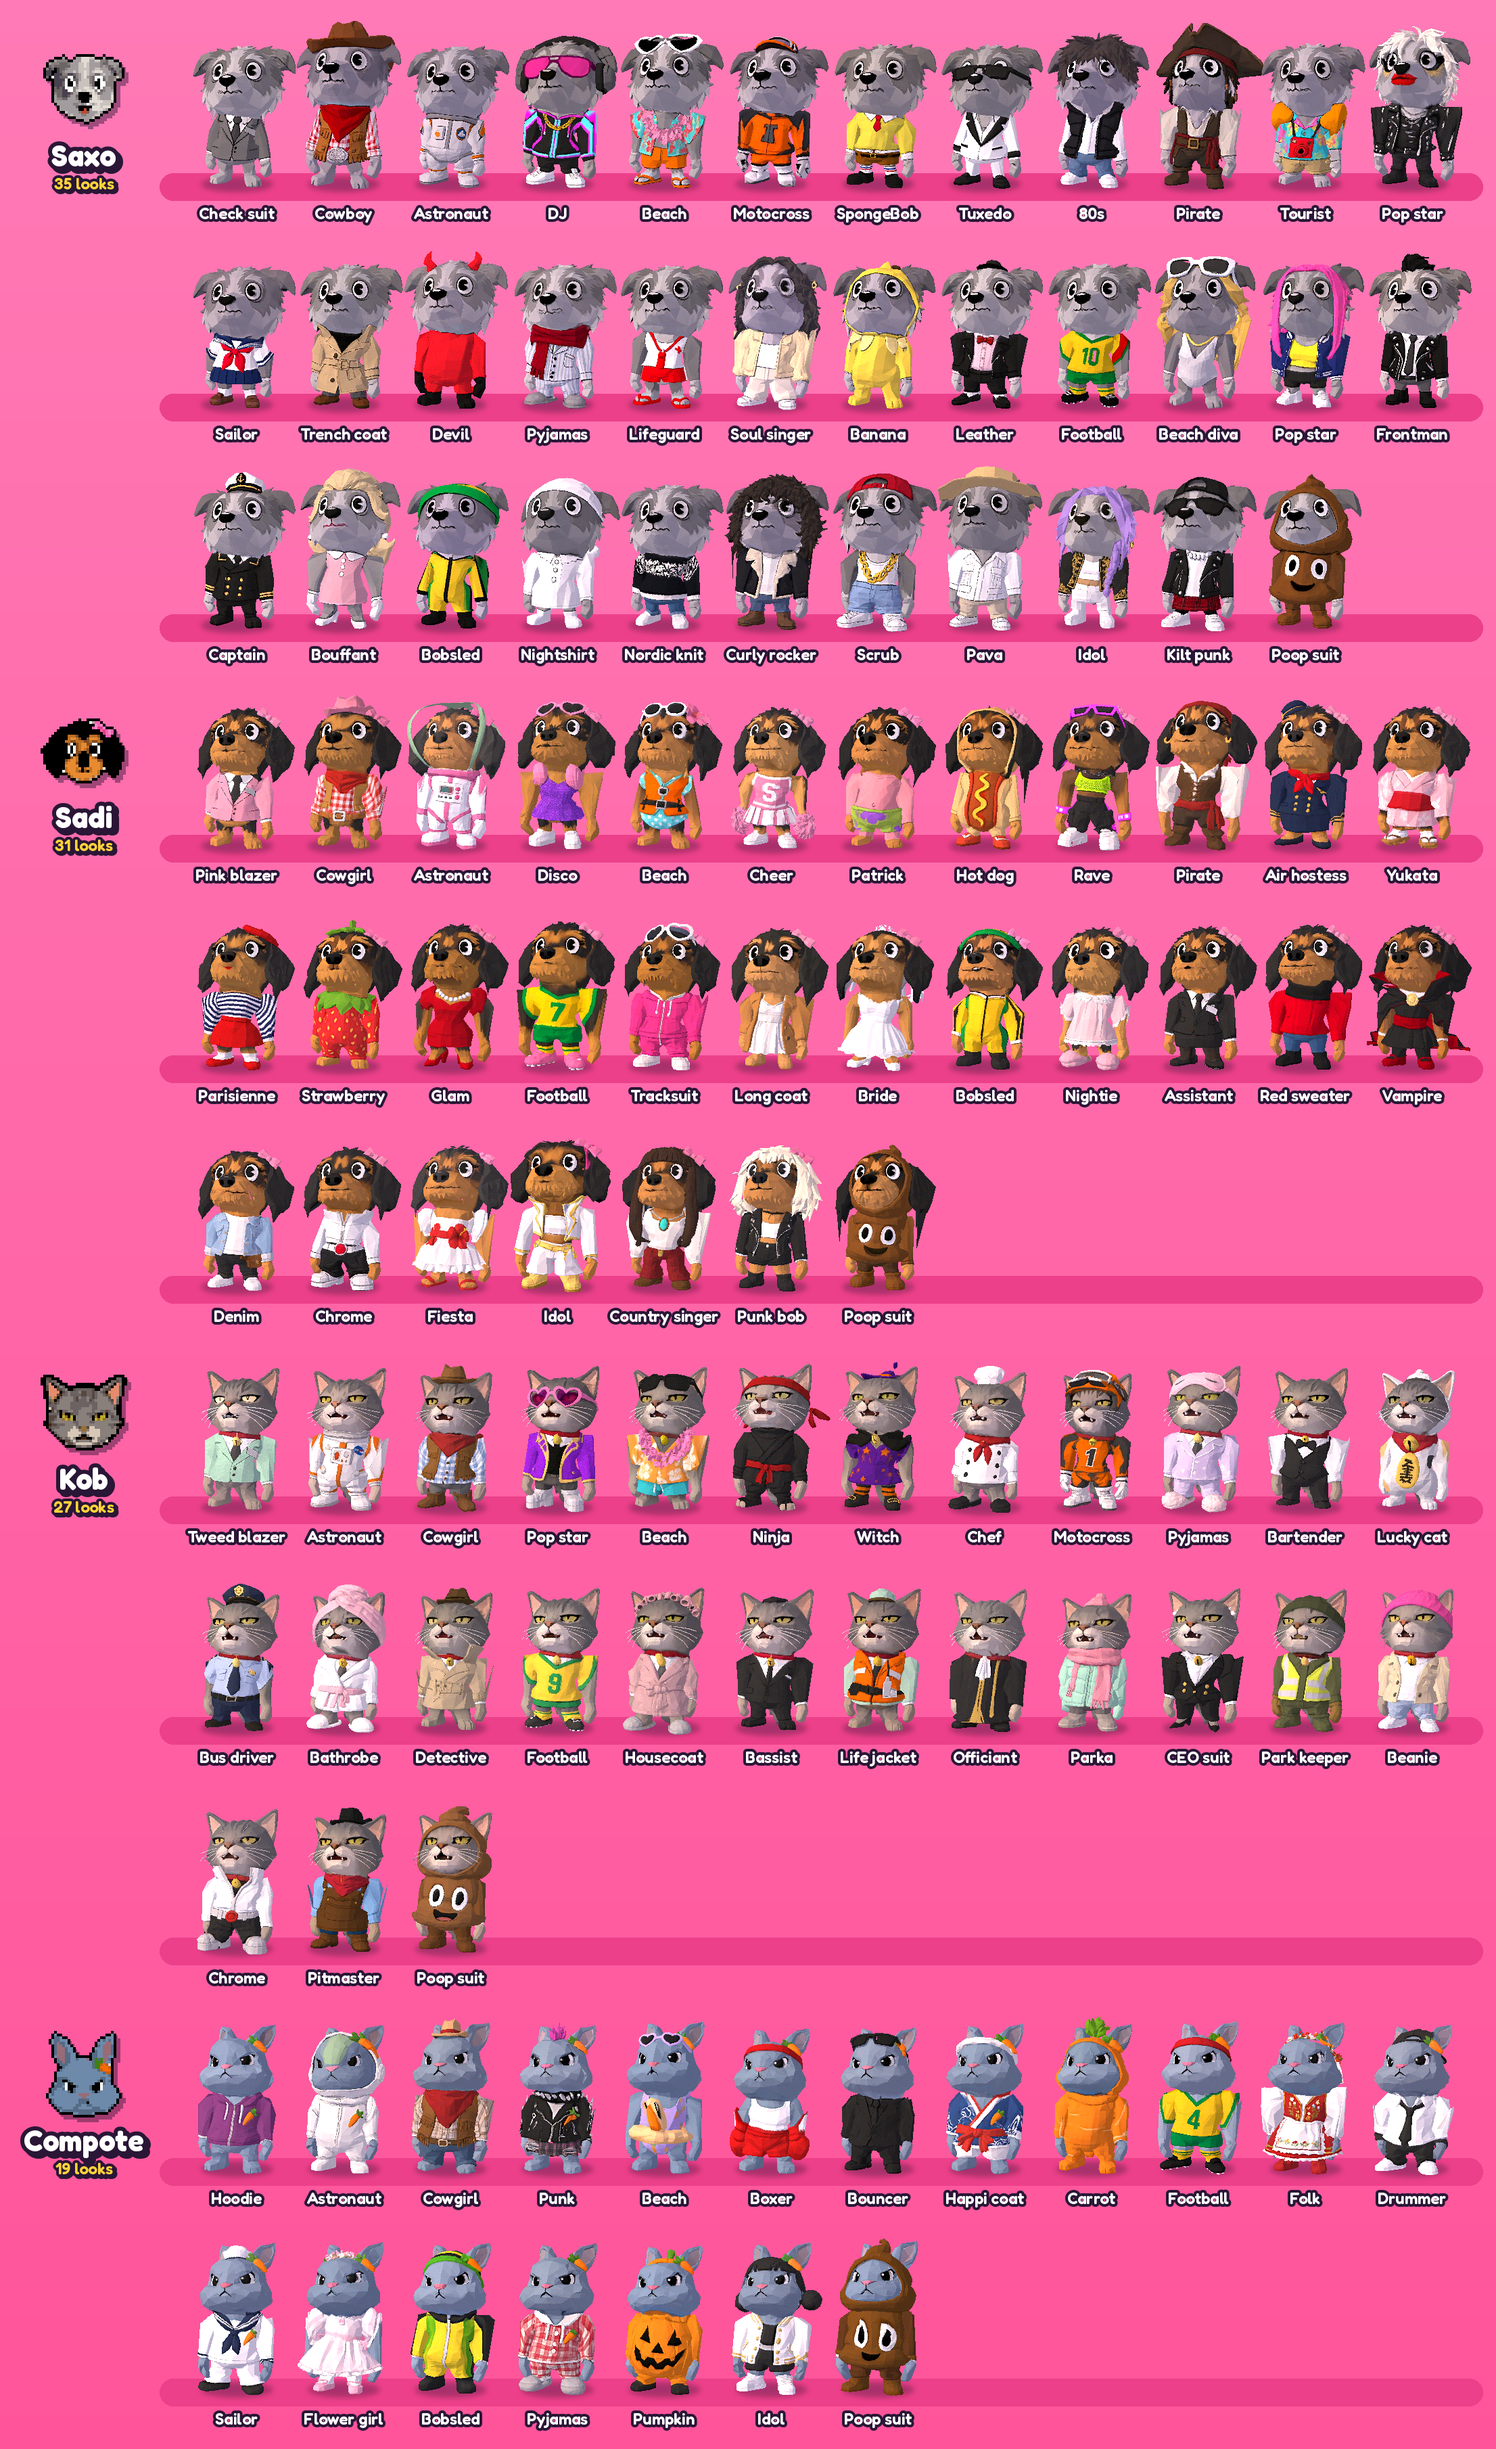
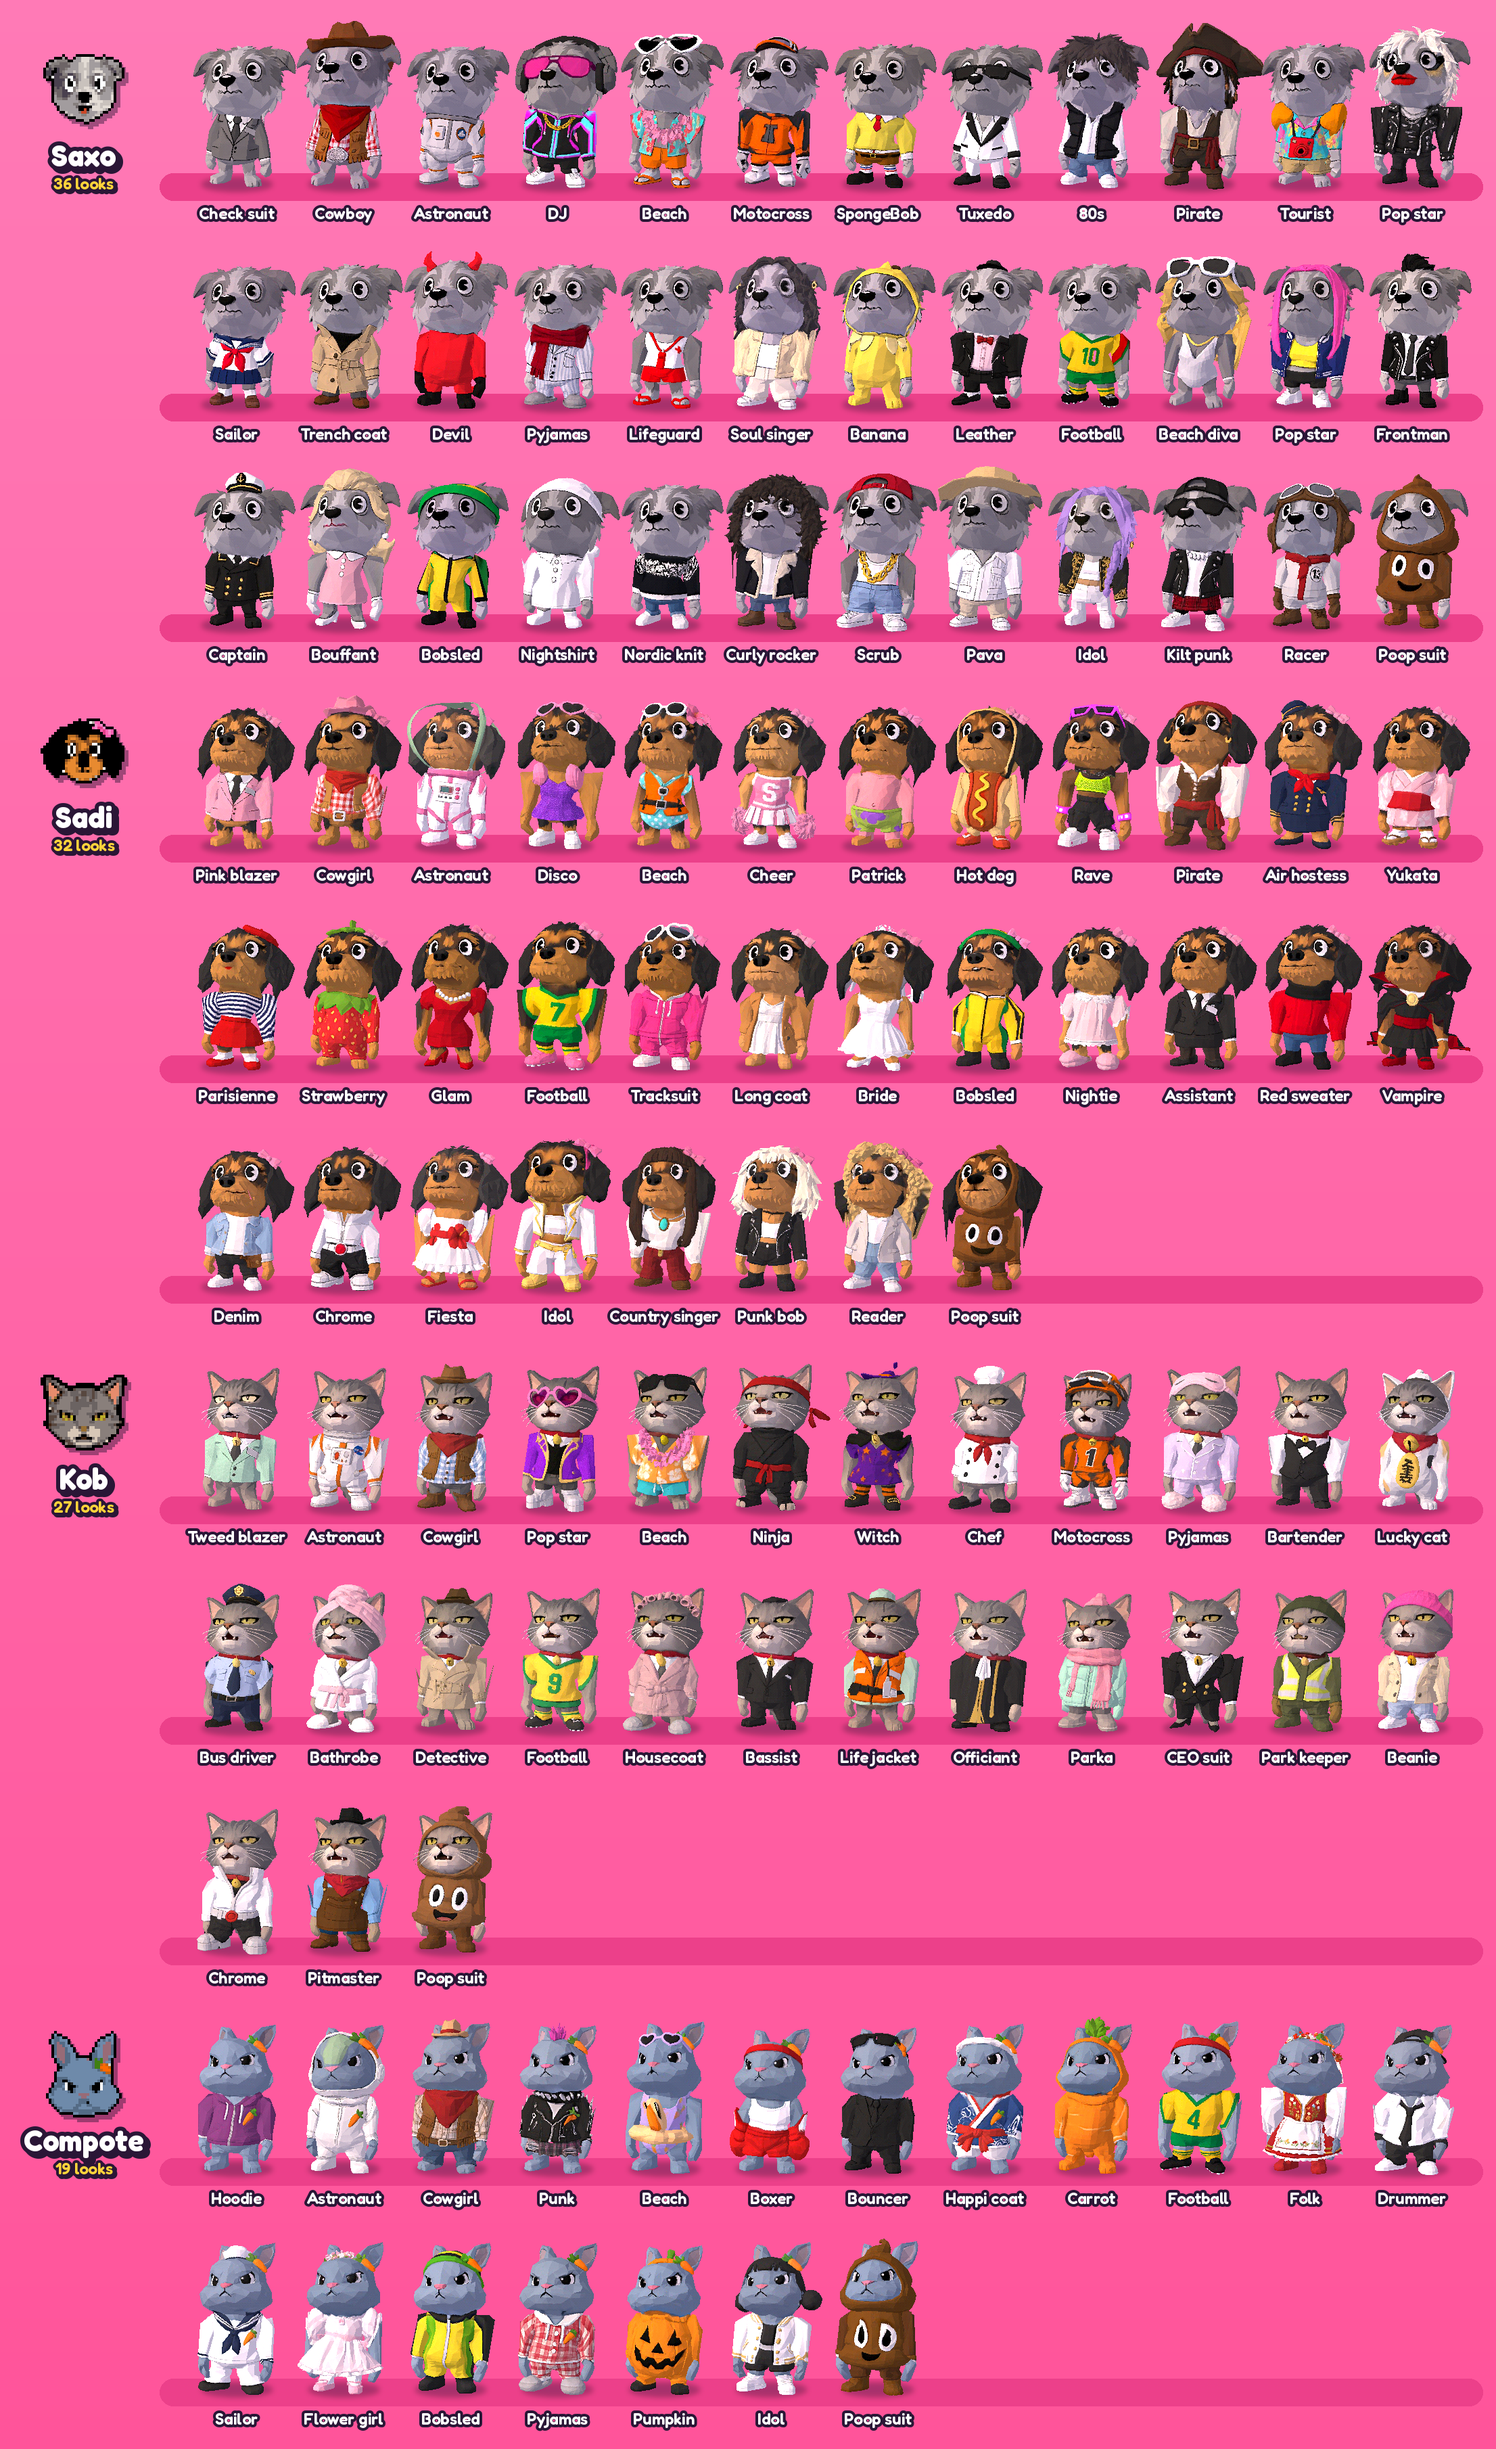
Sync with 1737cdc: docs(readme): the comic diner map, the racer and reader looks, the pencil world

Changed region(s): [[0.8422, 0.1873, 0.9982, 0.2809], [0.5615, 0.4682, 0.7175, 0.5619]]

diff --git a/README.md b/README.md
@@ -98,7 +98,7 @@ in Bikini Bottom, a hot dog in the supermarket. The poop suit is never automatic
 ## 75 maps, and counting
 
 <p align="center">
-  <img src="docs/readme/maps.png" width="100%" alt="The maps, from the street, club and moon to Tokyo, Paris, the yacht, the techno club, the treasure cave, the black ship, the plane, the chapel club, the desert village, the blossom festival, the pier at dusk, the night bus, a house party, a hospital ward, a water park, a radio studio, a fruits-only warehouse party, a film-noir night street, a cup final under the floodlights, a tiny Earth in space, a baobab on the savanna, a Spanish beach, a grey housing estate, a desert stage, a band trailer, a pink childhood bedroom, a schooner that sinks, a white wedding chapel, a Kingston beach, an Olympic bobsled track at night, a gothic tower ledge in the rain, a talent agency at night with the CEO's red office, a city park in autumn, a graveyard on Halloween night, a band's stage on a red canyon's rim at golden hour, a girl group's white spaceship set with a giant chrome NO, a night street where a saucer has landed, a lowrider cruising down a boulevard at night, a family party in a carport, an open-air K-pop arena at night, a Texas dance hall, the road into Abilene at golden hour, a pink apartment block's party lift, its stairwell and the penthouse party, each with the cast in costume">
+  <img src="docs/readme/maps.png" width="100%" alt="The maps, from the street, club and moon to Tokyo, Paris, the yacht, the techno club, the treasure cave, the black ship, the plane, the chapel club, the desert village, the blossom festival, the pier at dusk, the night bus, a house party, a hospital ward, a water park, a radio studio, a fruits-only warehouse party, a film-noir night street, a cup final under the floodlights, a tiny Earth in space, a baobab on the savanna, a Spanish beach, a grey housing estate, a desert stage, a band trailer, a pink childhood bedroom, a schooner that sinks, a white wedding chapel, a Kingston beach, an Olympic bobsled track at night, a gothic tower ledge in the rain, a talent agency at night with the CEO's red office, a city park in autumn, a graveyard on Halloween night, a band's stage on a red canyon's rim at golden hour, a girl group's white spaceship set with a giant chrome NO, a night street where a saucer has landed, a lowrider cruising down a boulevard at night, a family party in a carport, an open-air K-pop arena at night, a Texas dance hall, the road into Abilene at golden hour, a pink apartment block's party lift, its stairwell and the penthouse party, an 80s diner whose back wall is a giant comic page, each with the cast in costume">
 </p>
 
 Every map is built from primitives in [`src/maps*.js`](src/) and animated as a pure function of time, mostly on the
@@ -106,7 +106,8 @@ beat; each episode adds one to three for its story. The club floor flashes, a su
 locker bangs open every bar, the volcano erupts, the bowling ball strikes every two bars, in Paris the fountains fire
 on the beat while the Eiffel Tower sparkles on each bar, the techno club's ceiling net lets its balloons go on the
 drop, and the schooner sinks: the sea rises over its deck and everything under it turns blue, down to a camera among
-the fish.
+the fish. Behind the 80s diner's giant comic page the world is drawn in pencil, so whoever steps through its door is
+half drawn and half real.
 
 ## How a video gets made
 
